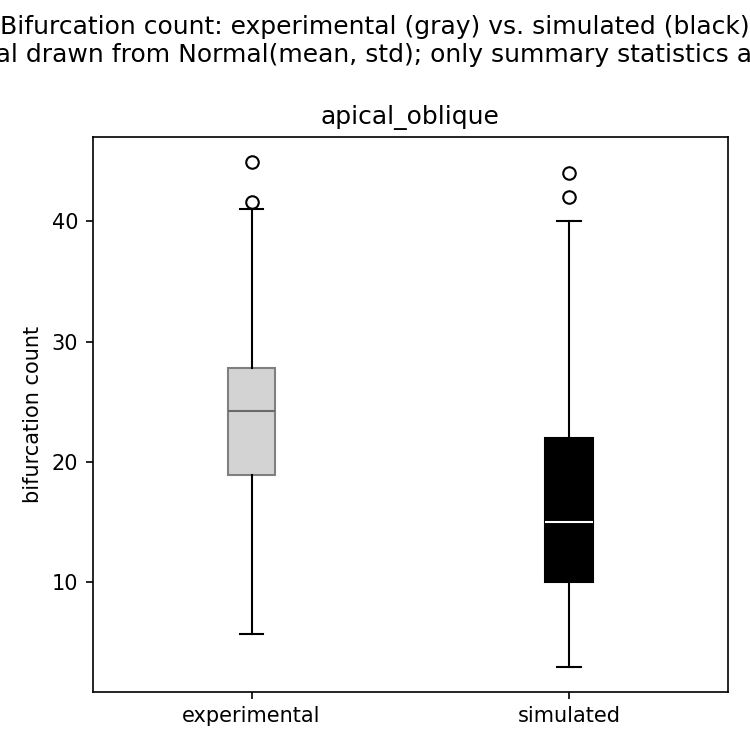
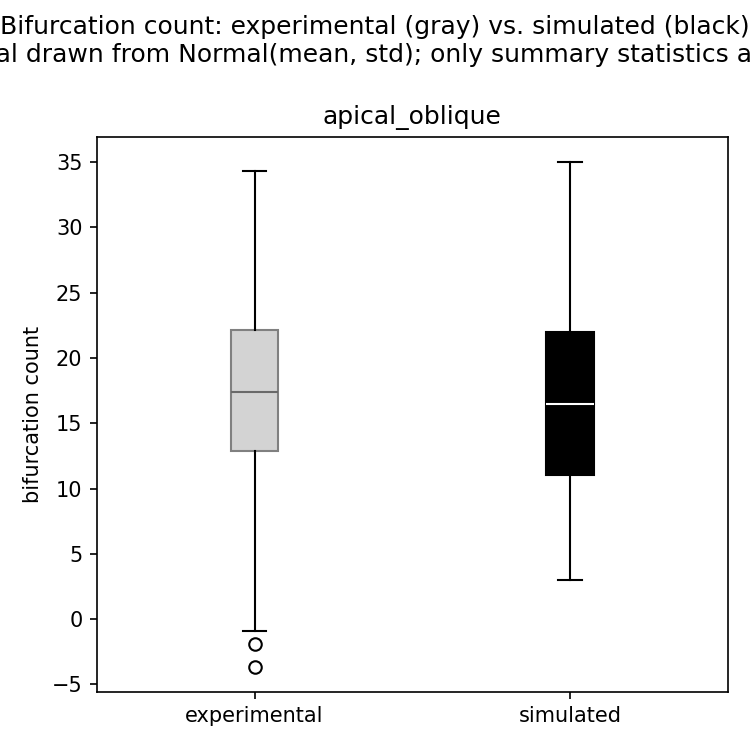
last version

diff --git a/extract_neo.py b/extract_neo.py
@@ -42,7 +42,7 @@ def main():
       try:
           print(f"\tExtracting statistics...", end="")
           params = extract_statistics(
-            load_morphologies(args.directory, delete_labels=delete_labels),
+            load_morphologies(args.directory, delete_labels=delete_labels, soma_processing=False),
             bin_size=args.bin_size)
           print("done")
 
